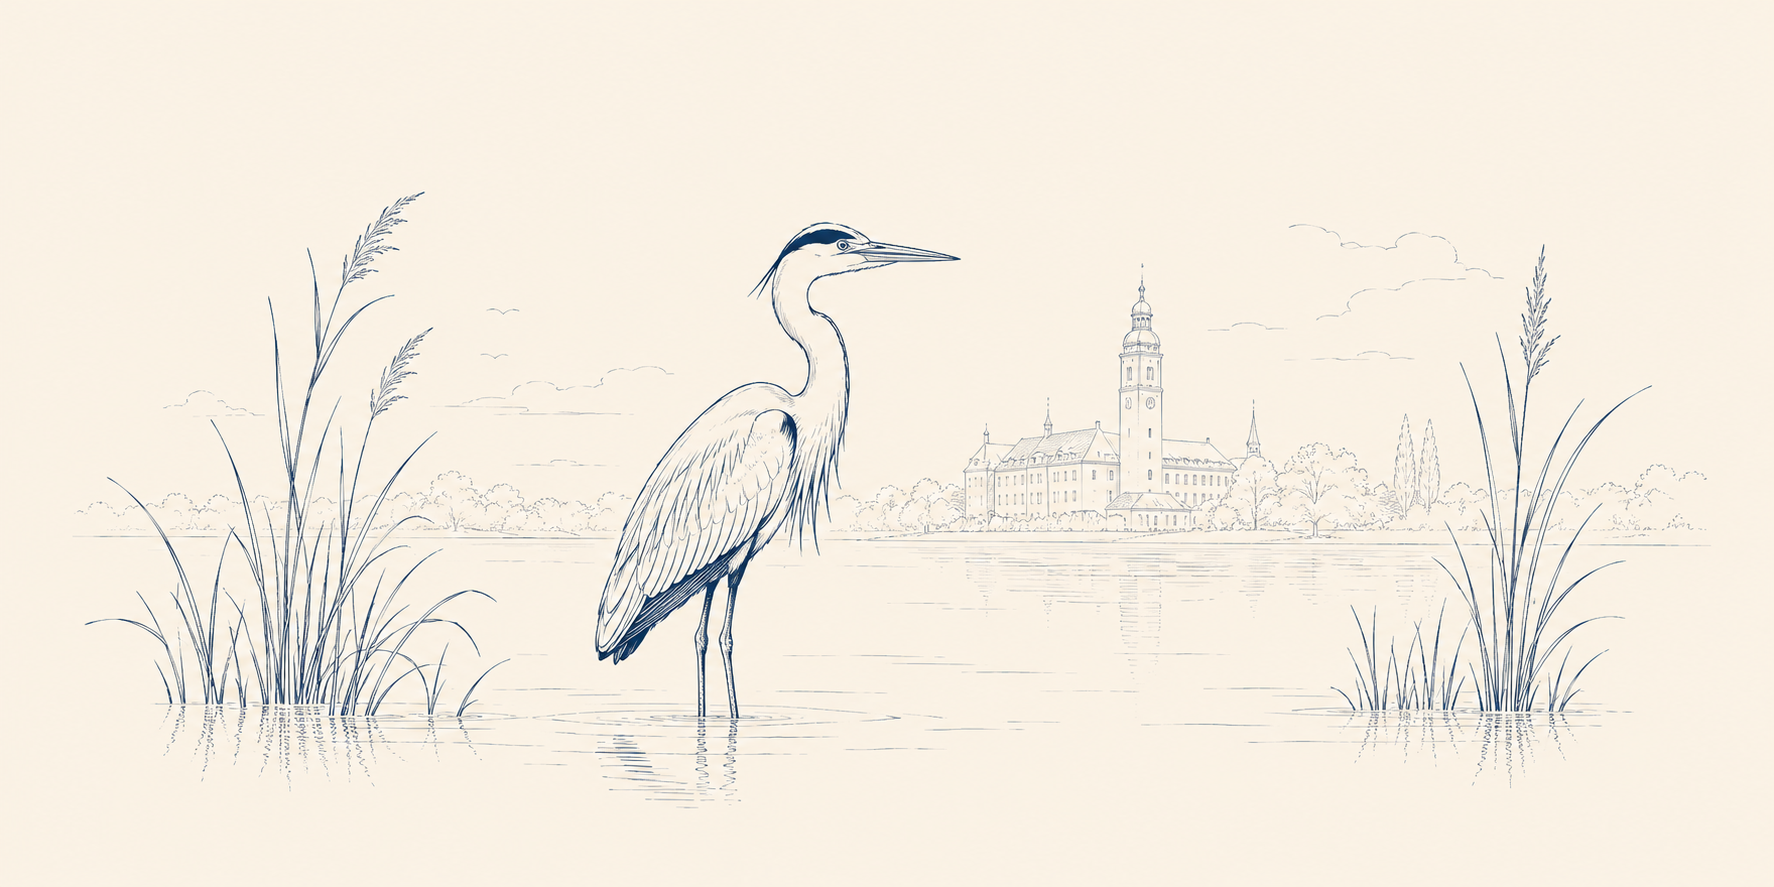
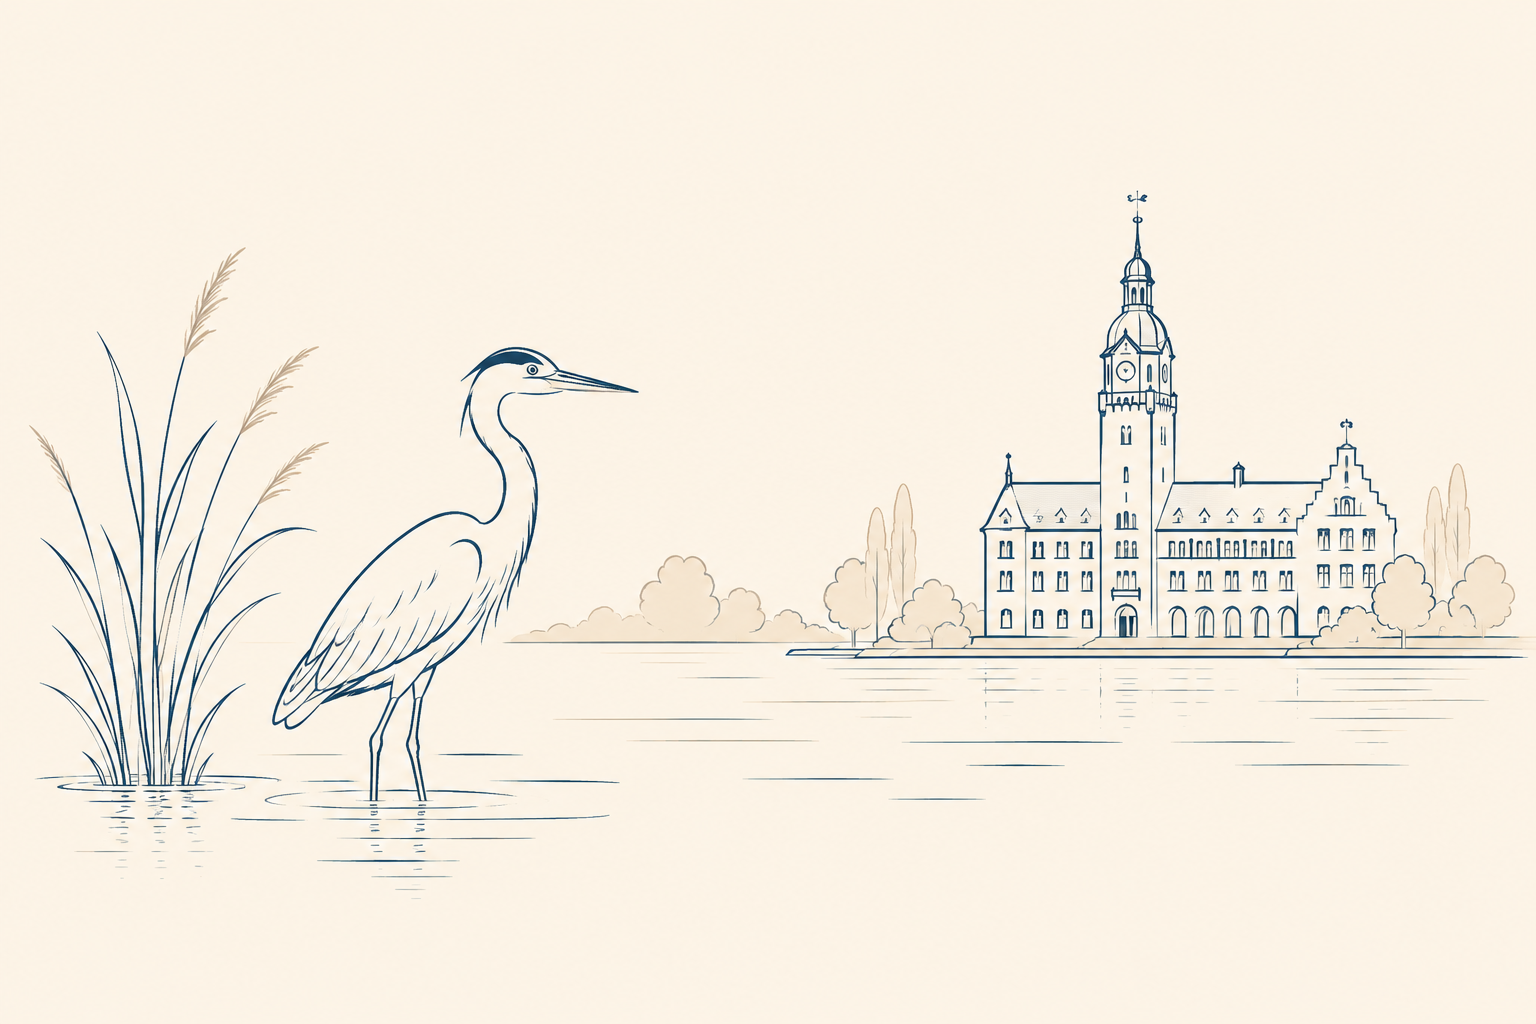
feat: new mobile hero + reeds/carp at mobile bottom corners
- Replace illus-mobile-hero.png with new wider landscape (heron + Rathaus)
- Reeds fixed bottom-left on mobile (left: -15, width: 160)
- Reeds fixed bottom-right on mobile (mirrored via scaleX(-1), width: 160)
- Carp fixed bottom center-right on mobile (width: 150)

https://claude.ai/code/session_01NMBMP3pXyQWSLw59ygyhfj

diff --git a/app/layout.tsx b/app/layout.tsx
@@ -65,11 +65,30 @@ export default function RootLayout({
           className="illus-baked hidden md:block"
           style={{ position: "fixed", left: 0, bottom: 0, width: 520, opacity: 0.32, pointerEvents: "none", zIndex: 5 }}
         />
-        {/* ── Mobile: hero image fixed below sticky header (60px + 40px nav rows) ── */}
+        {/* ── Mobile illustrations ── */}
+        {/* Hero — below header */}
         {/* eslint-disable-next-line @next/next/no-img-element */}
         <img src="/illustrations/illus-mobile-hero.png" alt="" aria-hidden="true"
           className="illus-baked md:hidden"
           style={{ position: "fixed", top: 100, left: 0, width: "100%", opacity: 0.30, pointerEvents: "none", zIndex: 5 }}
+        />
+        {/* Reeds — bottom left */}
+        {/* eslint-disable-next-line @next/next/no-img-element */}
+        <img src="/illustrations/illus-reeds.png" alt="" aria-hidden="true"
+          className="illus-mark md:hidden"
+          style={{ position: "fixed", bottom: 0, left: -15, width: 160, opacity: 0.22, pointerEvents: "none", zIndex: 5 }}
+        />
+        {/* Reeds — bottom right (mirrored) */}
+        {/* eslint-disable-next-line @next/next/no-img-element */}
+        <img src="/illustrations/illus-reeds.png" alt="" aria-hidden="true"
+          className="illus-mark md:hidden"
+          style={{ position: "fixed", bottom: 0, right: -15, width: 160, opacity: 0.22, pointerEvents: "none", zIndex: 5, transform: "scaleX(-1)" }}
+        />
+        {/* Carp — bottom center-right */}
+        {/* eslint-disable-next-line @next/next/no-img-element */}
+        <img src="/illustrations/illus-carp.png" alt="" aria-hidden="true"
+          className="illus-mark md:hidden"
+          style={{ position: "fixed", bottom: 30, right: "20%", width: 150, opacity: 0.20, pointerEvents: "none", zIndex: 5 }}
         />
         {children}
       </body>